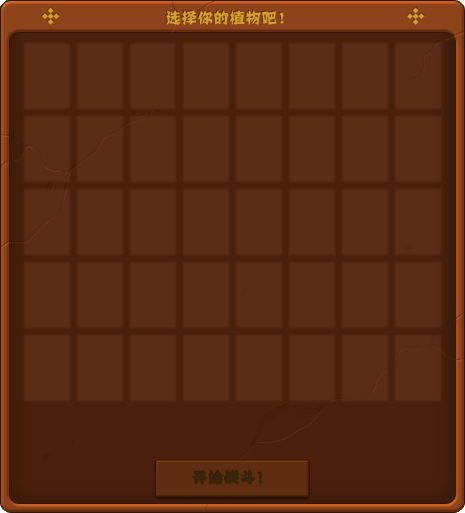
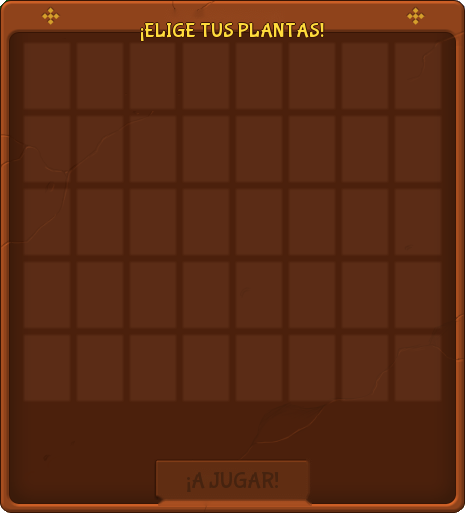
feat(pvz): fijar pantalla completa escalada, traducir botones a español e integrar cartel y oleada de gran horda

Changed region(s): [[0.3011, 0.0, 0.6925, 0.0936], [0.3312, 0.9045, 0.6624, 0.9981]]

diff --git a/PlantsVSZombies/Map.py b/PlantsVSZombies/Map.py
@@ -12,6 +12,7 @@ import psutil
 import subprocess
 from multiprocessing import Process
 from PIL import Image
+import math
 
 class Menu():
 	def __init__(self):
@@ -49,7 +50,9 @@ class Menu():
 		while 1:
 			for event in pygame.event.get():
 				if (event.type==pygame.QUIT):
-					return
+					return 0
+				if event.type == pygame.KEYDOWN and event.key == pygame.K_ESCAPE:
+					return 0
 				if event.type == pygame.MOUSEBUTTONUP:
 					x=self.Click(pygame.mouse.get_pos())
 					if (x>0):
@@ -67,10 +70,12 @@ class GameControl():
 		icon=pygame.image.load('Picture/Others/Flower.ico')
 		icon.set_colorkey((0,0,0))
 		pygame.display.set_icon(icon)
-		#图标无法设置为透明
 
 		flags = pygame.FULLSCREEN | pygame.SCALED if hasattr(pygame, "SCALED") else 0
-		self.screen=pygame.display.set_mode((Screen_Width, Screen_Height), flags)
+		self.screen = pygame.display.get_surface()
+		if self.screen is None or self.screen.get_size() != (Screen_Width, Screen_Height):
+			self.screen = pygame.display.set_mode((Screen_Width, Screen_Height), flags)
+
 		self.all_sprites=pygame.sprite.Group()
 		self.clock=pygame.time.Clock()
 		self.sun=Sun(self.screen)
@@ -79,9 +84,13 @@ class GameControl():
 		else:
 			self.sun.sum=3000
 		
-		File=open('info.in','r')
-		self.level=int(File.readline())
-		File.close()
+		info_file = 'Info.in' if os.path.exists('Info.in') else 'info.in'
+		try:
+			with open(info_file, 'r') as File:
+				val = int(File.readline().strip())
+				self.level = max(0, min(val - 1, len(Zom_create) - 1))
+		except Exception:
+			self.level = 0
 
 		self.zomid=0
 
@@ -93,6 +102,13 @@ class GameControl():
 		self.bullet_list=[]
 		self.car=Car(self.screen)
 		self.time=pygame.time.get_ticks()
+
+		self.horde_banner = pygame.image.load('Picture/Others/HordeBanner.png').convert_alpha()
+		self.horde_alert_active = False
+		self.horde_alert_start = 0
+		self.horde_spawned = False
+		self.survive_tick = pygame.time.get_ticks()
+		self.survive_wave_timer = pygame.time.get_ticks()
 
 	# Page initialization
 
@@ -225,31 +241,74 @@ class GameControl():
 		#子弹判定
 
 	def CreateZom(self):
-		if (self.mode==1):
-			if (self.zomid>=len(Zom_create[self.level])):
+		now_ticks = pygame.time.get_ticks()
+		elapsed = (now_ticks - self.time) / 1000
+
+		if (self.mode == 1):
+			if self.zomid >= len(Zom_create[self.level]):
 				return
-			if ((pygame.time.get_ticks() - self.time)/1000>= Zom_create[self.level][self.zomid][0]):
-				if (Zom_create[self.level][self.zomid][1]==0):
-					self.zombies.append(NolMal_Zombie(self.screen,0,random.randint(0,4)))	
-				elif (Zom_create[self.level][self.zomid][1]==1):
-					self.zombies.append(ConeheadZombie(self.screen,1,random.randint(0,4)))	
+
+			final_time = Zom_create[self.level][-1][0]
+			# Activar alerta de cartel 4 segundos antes de la horda final
+			if elapsed >= (final_time - 4) and not self.horde_alert_active and not self.horde_spawned:
+				self.horde_alert_active = True
+				self.horde_alert_start = now_ticks
+				try:
+					import cci_rumble
+					cci_rumble.explosion_rumble()
+				except Exception:
+					pass
+
+			# Al alcanzar la hora de la gran horda, añadir Flag Zombie liderando
+			if elapsed >= final_time and not self.horde_spawned:
+				self.horde_spawned = True
+				self.zombies.append(FlagZombie(self.screen, 3, random.randint(0, 4)))
+
+			# Spawnear todos los zombies agendados hasta este segundo
+			while self.zomid < len(Zom_create[self.level]) and elapsed >= Zom_create[self.level][self.zomid][0]:
+				z_type = Zom_create[self.level][self.zomid][1]
+				lane = random.randint(0, 4)
+				if z_type == 0:
+					self.zombies.append(NolMal_Zombie(self.screen, 0, lane))
+				elif z_type == 1:
+					self.zombies.append(ConeheadZombie(self.screen, 1, lane))
 				else:
-					self.zombies.append(BucketheadZombie(self.screen,2,random.randint(0,4)))	
-				self.zomid+=1
+					self.zombies.append(BucketheadZombie(self.screen, 2, lane))
+				self.zomid += 1
 		else:
-			if (pygame.time.get_ticks() - self.time>=5000):
-				self.time=pygame.time.get_ticks()
-				x=random.randint(0,4)
-				if (x==0):
-					self.zombies.append(NolMal_Zombie(self.screen,0,random.randint(0,4)))	
-				elif (x==1):
-					self.zombies.append(ConeheadZombie(self.screen,1,random.randint(0,4)))	
-				elif (x==2):
-					self.zombies.append(BucketheadZombie(self.screen,2,random.randint(0,4)))
-				elif (x==3):
-					self.zombies.append(FlagZombie(self.screen,3,random.randint(0,4)))
+			# Modo Supervivencia: zombies constantes
+			if now_ticks - self.survive_tick >= 4000:
+				self.survive_tick = now_ticks
+				x = random.randint(0, 4)
+				lane = random.randint(0, 4)
+				if x == 0:
+					self.zombies.append(NolMal_Zombie(self.screen, 0, lane))
+				elif x == 1:
+					self.zombies.append(ConeheadZombie(self.screen, 1, lane))
+				elif x == 2:
+					self.zombies.append(BucketheadZombie(self.screen, 2, lane))
+				elif x == 3:
+					self.zombies.append(FlagZombie(self.screen, 3, lane))
 				else:
-					self.zombies.append(PaperZombie(self.screen,4,random.randint(0,4)))
+					self.zombies.append(PaperZombie(self.screen, 4, lane))
+
+			# Horda masiva en Supervivencia cada 60 segundos
+			if now_ticks - self.survive_wave_timer >= 60000:
+				self.survive_wave_timer = now_ticks
+				self.horde_alert_active = True
+				self.horde_alert_start = now_ticks
+				try:
+					import cci_rumble
+					cci_rumble.explosion_rumble()
+				except Exception:
+					pass
+				self.zombies.append(FlagZombie(self.screen, 3, 2))
+				for l in range(5):
+					self.zombies.append(NolMal_Zombie(self.screen, 0, l))
+					if random.random() > 0.4:
+						self.zombies.append(ConeheadZombie(self.screen, 1, l))
+					if random.random() > 0.6:
+						self.zombies.append(BucketheadZombie(self.screen, 2, l))
 	#根据关卡信息生成僵尸
 
 	def ZomDraw(self):
@@ -340,19 +399,21 @@ class GameControl():
 		return lis
 
 	def Select(self):
-		screen=pygame.display.set_mode((Screen_Width, Screen_Height))
-		plants=[]
+		screen = self.screen
+		plants = []
 
 		while 1:
-			self.SelectDraw(screen,plants)
+			self.SelectDraw(screen, plants)
 			for event in pygame.event.get():
-				if (event.type==pygame.QUIT):
-					return plants
+				if event.type == pygame.QUIT:
+					return []
+				if event.type == pygame.KEYDOWN and event.key == pygame.K_ESCAPE:
+					return []
 				if event.type == pygame.MOUSEBUTTONUP:
-					if (self.BeginGame(plants)):
+					if self.BeginGame(plants):
 						return plants
-					a=self.SelectPlant(plants,pygame.mouse.get_pos())
-					plants=[]
+					a = self.SelectPlant(plants, pygame.mouse.get_pos())
+					plants = []
 					for i in a:
 						plants.append(i)
 	#游戏开始时选择植物
@@ -376,8 +437,10 @@ class GameControl():
 
 		while 1:
 			for event in pygame.event.get():
-				if (event.type==pygame.QUIT):
-					exit()
+				if event.type == pygame.QUIT:
+					return
+				if event.type == pygame.KEYDOWN and event.key == pygame.K_ESCAPE:
+					return
 				if event.type == pygame.MOUSEBUTTONUP:
 					if (self.card.select!=-1):
 						self.SetPlant(pygame.mouse.get_pos())
@@ -388,7 +451,6 @@ class GameControl():
 			self.screen.blit(cd,(0,0))
 			self.card.Draw(self.sun.sum)
 
-			
 			font=pygame.font.SysFont(None,22)
 			text=font.render(str(self.sun.sum),True,BLACK)
 			self.screen.blit(text,Sun_Pos)
@@ -412,31 +474,49 @@ class GameControl():
 			self.sun.Appear()
 			self.sun.Draw()
 
+			# Cartel: ¡SE APROXIMA UNA GRAN HORDA DE ZOMBIS!
+			if self.horde_alert_active:
+				alert_ms = pygame.time.get_ticks() - self.horde_alert_start
+				if alert_ms < 3800:
+					if (alert_ms // 220) % 2 == 0 or alert_ms < 1200:
+						scale = 1.0 + 0.05 * math.sin(alert_ms / 120.0)
+						bw = int(self.horde_banner.get_width() * scale)
+						bh = int(self.horde_banner.get_height() * scale)
+						b_surf = pygame.transform.smoothscale(self.horde_banner, (bw, bh))
+						bx = (Screen_Width - bw) // 2
+						by = 240
+						self.screen.blit(b_surf, (bx, by))
+				else:
+					self.horde_alert_active = False
+
 			if (self.WinCheck()==0):
 				try:
 					import cci_rumble
 					cci_rumble.explosion_rumble()
 				except Exception:
 					pass
-				img=pygame.image.load('Picture/Menu/Lost.png')
+				img=pygame.image.load('Picture/Menu/Lost.png').convert_alpha()
 				rec=img.get_rect()
-				new=pygame.display.set_mode((rec[2],rec[3]))
-				new.blit(img,(0,0))
+				self.screen.fill((0, 0, 0))
+				self.screen.blit(img, ((Screen_Width - rec.width) // 2, (Screen_Height - rec.height) // 2))
 				pygame.display.flip()
 				sleep(3)
 				return
 			elif (self.WinCheck()==1):
-				File=open('info.in','w')
-				x=self.level+1
-				if (x>5):
-					x=1
-				File.write(str(x))
-				File.close()
+				info_file = 'Info.in' if os.path.exists('Info.in') else 'info.in'
+				try:
+					with open(info_file, 'w') as File:
+						x = self.level + 2
+						if x > len(Zom_create):
+							x = 1
+						File.write(str(x))
+				except Exception:
+					pass
 
-				img=pygame.image.load('Picture/Menu/Win.png')
+				img=pygame.image.load('Picture/Menu/Win.png').convert_alpha()
 				rec=img.get_rect()
-				new=pygame.display.set_mode((rec[2],rec[3]))
-				new.blit(img,(0,0))
+				self.screen.fill((0, 0, 0))
+				self.screen.blit(img, ((Screen_Width - rec.width) // 2, (Screen_Height - rec.height) // 2))
 				pygame.display.flip()
 				sleep(3)
 				return
@@ -451,4 +531,3 @@ class GameControl():
 		self.sun.time=pygame.time.get_ticks()
 		self.card=Card(self.screen,plants)
 		self.Test()
-		pygame.quit()

diff --git a/PlantsVSZombies/setting.py b/PlantsVSZombies/setting.py
@@ -85,7 +85,7 @@ Zombie_dic=[{'Walk':22,'Attack':21,'Withouthead':18,'LostHead':12,'Die':10},
 '''
 
 Zom_create=[
-	[[20,0],[48,0],[74,0],[96,0],[96,0],[110,0],[110,0],[120,0],[120,0],[140,0],[140,0],[140,0],[155,0],[155,0],[155,0]],
+	[[20,0],[48,0],[74,0],[96,0],[96,0],[110,0],[110,0],[120,0],[120,0],[140,0],[140,0],[140,0],[155,0],[155,0],[155,0],[155,0],[155,0],[155,0]],
 	[[20,0],[48,0],[74,0],[96,0],[96,0],[96,0],[110,0],[110,0],[110,0],[120,0],[120,0],[140,0],[140,0],[140,0],[155,0],[155,0],[155,0],[160,0],[160,0],[160,0],[160,0],[160,0],[160,0],[160,0],[160,0]],
 	[[20,0],[48,0],[74,0],[96,1],[96,0],[96,0],[110,1],[110,0],[110,0],[120,1],[120,1],[140,0],[140,0],[140,0],[155,1],[155,1],[155,0],[160,1],[160,1],[160,1],[160,0],[160,0],[160,0],[160,0],[160,0]],
 	[[20,0],[48,0],[74,0],[96,0],[96,1],[110,0],[110,1],[120,1],[120,2],[140,2],[140,2],[140,0],[155,1],[155,2],[155,2]],

diff --git a/PlantsVSZombies/main.py b/PlantsVSZombies/main.py
@@ -24,9 +24,12 @@ from PIL import Image
 menu=Menu()
 mode=menu.Run()
 
-while 1:
-	game=GameControl(mode)
-	plantlist=game.Select()
-	if (len(plantlist)==0):
-		break
-	game.Run(plantlist)
+if mode and mode > 0:
+	while 1:
+		game=GameControl(mode)
+		plantlist=game.Select()
+		if not plantlist or len(plantlist)==0:
+			break
+		game.Run(plantlist)
+
+pygame.quit()
